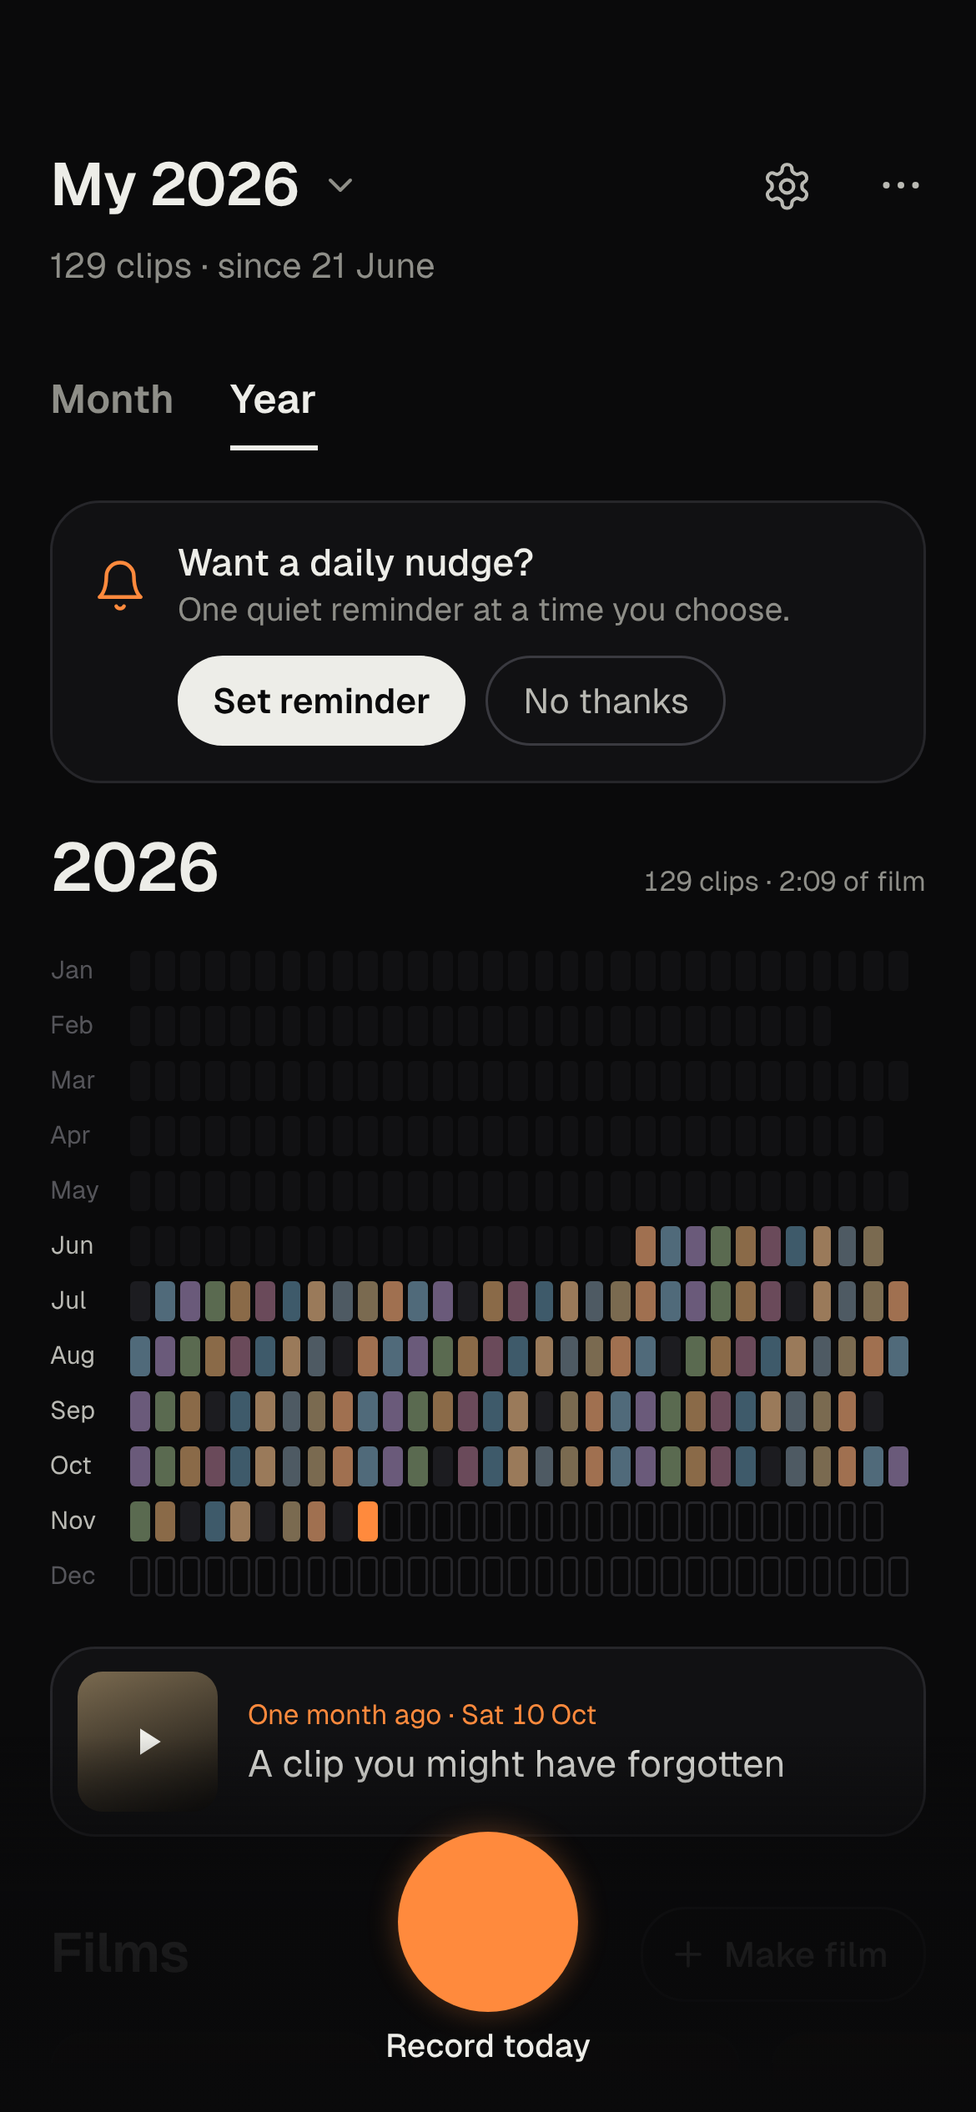
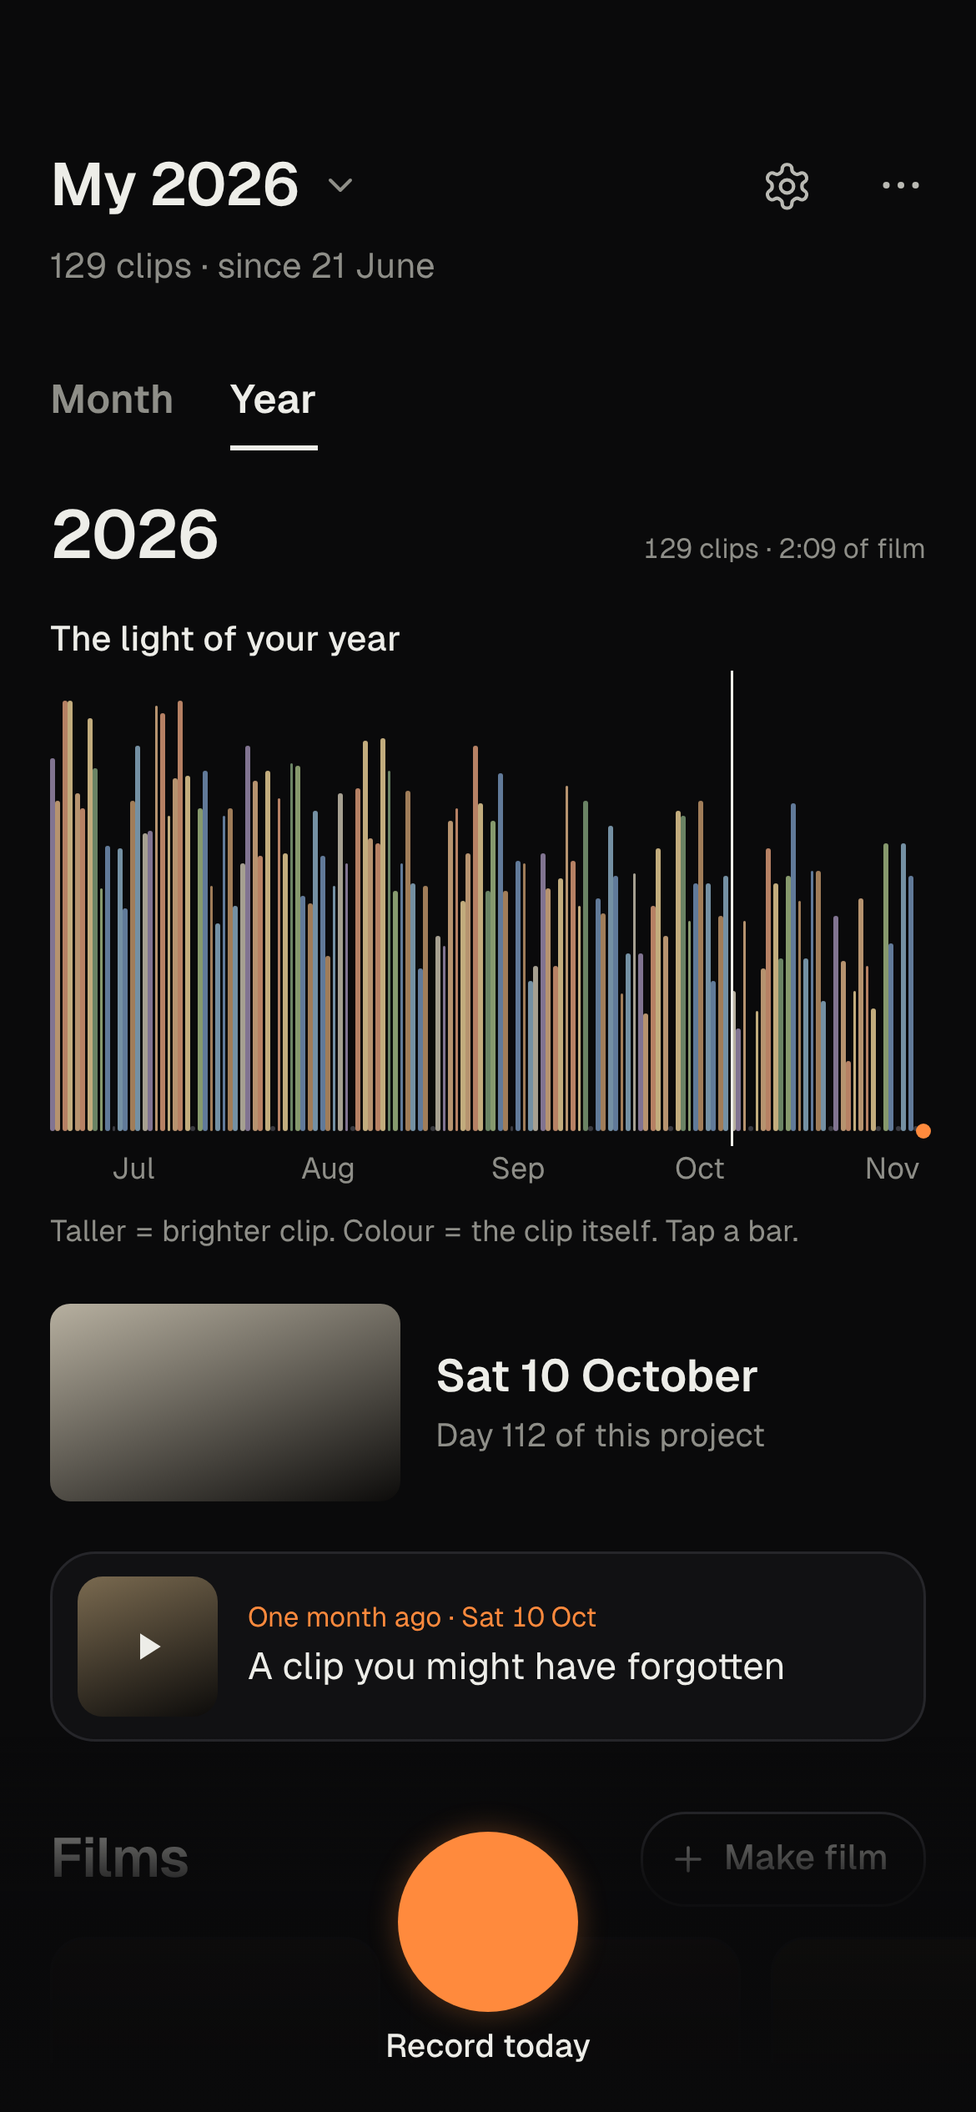
docs(design): v1.3.1 pack — light of the year + golden hour
Adds ProjectHubYear(L) and CameraV2Golden boards and the v1.3.1 INDEX section
from sliver-pixel-perfect_2.zip. Design only; no code yet.

diff --git a/design/src/ProjectHubL.dc.html b/design/src/ProjectHubL.dc.html
@@ -2,7 +2,7 @@
 <html lang="en">
 <head>
 <meta charset="utf-8">
-<title>ProjectHub light</title>
+<title>Project, light</title>
 <script src="./support.js"></script>
 </head>
 <body>
@@ -96,16 +96,28 @@
           <span style="font-family: Geist, Inter, system-ui, sans-serif; font-size: 27px; line-height: 1; font-weight: 600; letter-spacing: -0.02em">2026</span>
           <span style="font-family: Geist, sans-serif; font-variant-numeric: tabular-nums; font-size: 11px; color: #6E6B64">129 clips · 2:09 of film</span>
         </div>
-        <div style="display: flex; flex-direction: column; gap: 6px">
-          <sc-for list="{{year}}" as="r" hint-placeholder-count="12">
-            <button onClick="{{r.go}}" aria-label="{{r.label}}" style="height: 16px; display: flex; align-items: center; border: 0; background: transparent; padding: 0">
-              <span style="flex: 0 0 32px; text-align: left; font-family: Geist, sans-serif; font-variant-numeric: tabular-nums; font-size: 10px; color: {{r.color}}">{{r.n}}</span>
-              <span style="display: flex; gap: 2.3px">
-                <sc-for list="{{r.cells}}" as="y" hint-placeholder-count="31"><span style="width: 7.8px; height: 16px; box-sizing: border-box; border-radius: 2px; background: {{y.bg}}; border: {{y.border}}; visibility: {{y.vis}}"></span></sc-for>
-              </span>
-            </button>
-          </sc-for>
+        <!-- light of the year: one bar per day, height = how bright the clip is, colour = the clip -->
+        <div style="display: flex; flex-direction: column; gap: 8px">
+          <span style="font-family: Geist, sans-serif; font-size: 14px; font-weight: 500; color: #141413">The light of your year</span>
+          <div style="position: relative; height: 180px">
+            <sc-for list="{{light}}" as="b" hint-placeholder-count="143">
+              <span onClick="{{b.pick}}" style="position: absolute; bottom: 0; left: {{b.x}}px; width: 1.9px; height: {{b.h}}px; border-radius: 1px; background: {{b.c}}; opacity: {{b.op}}"></span>
+            </sc-for>
+            <span style="position: absolute; left: {{selX}}px; top: -4px; bottom: -6px; width: 1.5px; background: #141413"></span>
+            <span style="position: absolute; left: {{todayX}}px; bottom: -3px; width: 6px; height: 6px; margin-left: -2px; border-radius: 3px; background: #FF8A3D"></span>
+          </div>
+          <div style="position: relative; height: 16px">
+            <sc-for list="{{lightMonths}}" as="m" hint-placeholder-count="6"><button onClick="{{m.go}}" style="position: absolute; left: {{m.x}}px; border: 0; background: transparent; padding: 0; font-family: Geist, sans-serif; font-size: 12px; color: #6E6B64">{{m.n}}</button></sc-for>
+          </div>
+          <span style="font-family: Geist, sans-serif; font-size: 12px; line-height: 1.4; color: #6E6B64">Taller = brighter clip. Colour = the clip itself. Tap a bar.</span>
         </div>
+        <a href="DayDetail.dc.html" style="display: flex; gap: 14px; align-items: center; text-decoration: none; color: #141413">
+          <span style="flex: 0 0 140px; height: 79px; border-radius: 8px; background: {{selBg}}"></span>
+          <span style="display: flex; flex-direction: column; gap: 4px; font-family: Geist, sans-serif">
+            <span style="font-size: 18px; font-weight: 600">{{selName}}</span>
+            <span style="font-size: 13px; line-height: 1.35; color: #6E6B64">{{selNote}}</span>
+          </span>
+        </a>
       </sc-if>
 
       <!-- memory -->
@@ -215,6 +227,28 @@ class Component extends DCLogic {
       }
       return { n: name, cells: cs, color: active ? '#4A4843' : '#A8A49B', label: MN[mi], go: () => { if (active) this.setState({ view: 'month', month: mi }); } };
     });
+    // light of the year
+    const LW = 350, N = TODAY - START + 1;
+    const lum = (n) => { const season = 1 - (n - START) / N * 0.5; const w = Math.sin(n * 1.7) * 0.17 + Math.sin(n * 0.37) * 0.12; return Math.min(1, Math.max(0.1, season * 0.82 + w)); };
+    const tone = ['#C9A27A', '#7F9FB4', '#93A878', '#C98E6E', '#B7B0A0', '#6A86A8', '#D6BE8A', '#8E80A0', '#B08A62', '#74906E'];
+    const sel = st.sel || doy(9, 10);
+    const light = [];
+    for (let n = START; n < TODAY; n++) {
+      const s = status(...(() => { let mm = 0, dd = n; while (dd > ML[mm]) { dd -= ML[mm]; mm++; } return [mm, dd]; })());
+      const x = ((n - START) * LW / N).toFixed(1);
+      if (s !== 'filled') { light.push({ x, h: 2, c: '#CFCAC0', op: 1, pick: () => {} }); continue; }
+      light.push({ x, h: Math.round(172 * lum(n)), c: tone[(n * 3 + (n >> 3)) % tone.length], op: n === sel ? 1 : 0.9, pick: () => this.setState({ sel: n }) });
+    }
+    const dOf = (n) => { let mm = 0, dd = n; while (dd > ML[mm]) { dd -= ML[mm]; mm++; } return [mm, dd]; };
+    const [sm, sd] = dOf(sel);
+    let best = START, bl = 0; for (let n = START; n < TODAY; n++) { const [a2, b2] = dOf(n); if (a2 === sm && status(a2, b2) === 'filled' && lum(n) > bl) { bl = lum(n); best = n; } }
+    const lightVals = {
+      light, selX: ((sel - START) * LW / N).toFixed(1), todayX: ((TODAY - START) * LW / N).toFixed(1),
+      lightMonths: [[6, 'Jul'], [7, 'Aug'], [8, 'Sep'], [9, 'Oct'], [10, 'Nov']].map((q) => ({ n: q[1], x: Math.max(0, (doy(q[0], 1) - START) * LW / N).toFixed(1), go: () => this.setState({ view: 'month', month: q[0] }) })),
+      selBg: 'linear-gradient(160deg, ' + tone[(sel * 3 + (sel >> 3)) % tone.length] + ', #0C0B0A)',
+      selName: ['Mon', 'Tue', 'Wed', 'Thu', 'Fri', 'Sat', 'Sun'][wdOf(sm, sd)] + ' ' + sd + ' ' + MN[sm],
+      selNote: sel === best ? 'The brightest day of ' + MN[sm] : 'Day ' + (sel - START + 1) + ' of this project'
+    };
     const seg = (on) => ({ line: on ? '#141413' : 'transparent', color: on ? '#141413' : '#6E6B64', on: String(on) });
     return {
       views: [['month', 'Month'], ['year', 'Year']].map((v) => Object.assign({ n: v[1], pick: () => this.setState({ view: v[0] }) }, seg(st.view === v[0]))),
@@ -222,7 +256,7 @@ class Component extends DCLogic {
       prev: () => { if (m > 5) this.setState({ month: m - 1 }); }, next: () => { if (m < 10) this.setState({ month: m + 1 }); },
       prevColor: m > 5 ? '#141413' : '#CFCAC0', nextColor: m < 10 ? '#141413' : '#CFCAC0',
       total: st.saved ? 130 : 129, todayOpen: !st.saved, todayDone: st.saved,
-      monthName: MN[m], monthCount: count, cells, year,
+      monthName: MN[m], monthCount: count, cells, year, ...lightVals,
       nudge: st.nudge, dismissNudge: () => this.setState({ nudge: false }),
       menu: st.menu, menuStr: String(st.menu), menuBg: st.menu ? '#ECE8E0' : 'transparent',
       toggleMenu: () => this.setState({ menu: !st.menu }),

diff --git a/design/src/ProjectHub.dc.html b/design/src/ProjectHub.dc.html
@@ -96,16 +96,28 @@
           <span style="font-family: Geist, Inter, system-ui, sans-serif; font-size: 27px; line-height: 1; font-weight: 600; letter-spacing: -0.02em">2026</span>
           <span style="font-family: Geist, sans-serif; font-variant-numeric: tabular-nums; font-size: 11px; color: #8E8E88">129 clips · 2:09 of film</span>
         </div>
-        <div style="display: flex; flex-direction: column; gap: 6px">
-          <sc-for list="{{year}}" as="r" hint-placeholder-count="12">
-            <button onClick="{{r.go}}" aria-label="{{r.label}}" style="height: 16px; display: flex; align-items: center; border: 0; background: transparent; padding: 0">
-              <span style="flex: 0 0 32px; text-align: left; font-family: Geist, sans-serif; font-variant-numeric: tabular-nums; font-size: 10px; color: {{r.color}}">{{r.n}}</span>
-              <span style="display: flex; gap: 2.3px">
-                <sc-for list="{{r.cells}}" as="y" hint-placeholder-count="31"><span style="width: 7.8px; height: 16px; box-sizing: border-box; border-radius: 2px; background: {{y.bg}}; border: {{y.border}}; visibility: {{y.vis}}"></span></sc-for>
-              </span>
-            </button>
-          </sc-for>
+        <!-- light of the year: one bar per day, height = how bright the clip is, colour = the clip -->
+        <div style="display: flex; flex-direction: column; gap: 8px">
+          <span style="font-family: Geist, sans-serif; font-size: 14px; font-weight: 500; color: #EDEDE8">The light of your year</span>
+          <div style="position: relative; height: 180px">
+            <sc-for list="{{light}}" as="b" hint-placeholder-count="143">
+              <span onClick="{{b.pick}}" style="position: absolute; bottom: 0; left: {{b.x}}px; width: 1.9px; height: {{b.h}}px; border-radius: 1px; background: {{b.c}}; opacity: {{b.op}}"></span>
+            </sc-for>
+            <span style="position: absolute; left: {{selX}}px; top: -4px; bottom: -6px; width: 1.5px; background: #EDEDE8"></span>
+            <span style="position: absolute; left: {{todayX}}px; bottom: -3px; width: 6px; height: 6px; margin-left: -2px; border-radius: 3px; background: #FF8A3D"></span>
+          </div>
+          <div style="position: relative; height: 16px">
+            <sc-for list="{{lightMonths}}" as="m" hint-placeholder-count="6"><button onClick="{{m.go}}" style="position: absolute; left: {{m.x}}px; border: 0; background: transparent; padding: 0; font-family: Geist, sans-serif; font-size: 12px; color: #8E8E88">{{m.n}}</button></sc-for>
+          </div>
+          <span style="font-family: Geist, sans-serif; font-size: 12px; line-height: 1.4; color: #8E8E88">Taller = brighter clip. Colour = the clip itself. Tap a bar.</span>
         </div>
+        <a href="DayDetail.dc.html" style="display: flex; gap: 14px; align-items: center; text-decoration: none; color: #EDEDE8">
+          <span style="flex: 0 0 140px; height: 79px; border-radius: 8px; background: {{selBg}}"></span>
+          <span style="display: flex; flex-direction: column; gap: 4px; font-family: Geist, sans-serif">
+            <span style="font-size: 18px; font-weight: 600">{{selName}}</span>
+            <span style="font-size: 13px; line-height: 1.35; color: #8E8E88">{{selNote}}</span>
+          </span>
+        </a>
       </sc-if>
 
       <!-- memory -->
@@ -215,6 +227,28 @@ class Component extends DCLogic {
       }
       return { n: name, cells: cs, color: active ? '#B9B9B3' : '#55555A', label: MN[mi], go: () => { if (active) this.setState({ view: 'month', month: mi }); } };
     });
+    // light of the year
+    const LW = 350, N = TODAY - START + 1;
+    const lum = (n) => { const season = 1 - (n - START) / N * 0.5; const w = Math.sin(n * 1.7) * 0.17 + Math.sin(n * 0.37) * 0.12; return Math.min(1, Math.max(0.1, season * 0.82 + w)); };
+    const tone = ['#C9A27A', '#7F9FB4', '#93A878', '#C98E6E', '#B7B0A0', '#6A86A8', '#D6BE8A', '#8E80A0', '#B08A62', '#74906E'];
+    const sel = st.sel || doy(9, 10);
+    const light = [];
+    for (let n = START; n < TODAY; n++) {
+      const s = status(...(() => { let mm = 0, dd = n; while (dd > ML[mm]) { dd -= ML[mm]; mm++; } return [mm, dd]; })());
+      const x = ((n - START) * LW / N).toFixed(1);
+      if (s !== 'filled') { light.push({ x, h: 2, c: '#3A3A40', op: 1, pick: () => {} }); continue; }
+      light.push({ x, h: Math.round(172 * lum(n)), c: tone[(n * 3 + (n >> 3)) % tone.length], op: n === sel ? 1 : 0.9, pick: () => this.setState({ sel: n }) });
+    }
+    const dOf = (n) => { let mm = 0, dd = n; while (dd > ML[mm]) { dd -= ML[mm]; mm++; } return [mm, dd]; };
+    const [sm, sd] = dOf(sel);
+    let best = START, bl = 0; for (let n = START; n < TODAY; n++) { const [a2, b2] = dOf(n); if (a2 === sm && status(a2, b2) === 'filled' && lum(n) > bl) { bl = lum(n); best = n; } }
+    const lightVals = {
+      light, selX: ((sel - START) * LW / N).toFixed(1), todayX: ((TODAY - START) * LW / N).toFixed(1),
+      lightMonths: [[6, 'Jul'], [7, 'Aug'], [8, 'Sep'], [9, 'Oct'], [10, 'Nov']].map((q) => ({ n: q[1], x: Math.max(0, (doy(q[0], 1) - START) * LW / N).toFixed(1), go: () => this.setState({ view: 'month', month: q[0] }) })),
+      selBg: 'linear-gradient(160deg, ' + tone[(sel * 3 + (sel >> 3)) % tone.length] + ', #0C0B0A)',
+      selName: ['Mon', 'Tue', 'Wed', 'Thu', 'Fri', 'Sat', 'Sun'][wdOf(sm, sd)] + ' ' + sd + ' ' + MN[sm],
+      selNote: sel === best ? 'The brightest day of ' + MN[sm] : 'Day ' + (sel - START + 1) + ' of this project'
+    };
     const seg = (on) => ({ line: on ? '#EDEDE8' : 'transparent', color: on ? '#EDEDE8' : '#8E8E88', on: String(on) });
     return {
       views: [['month', 'Month'], ['year', 'Year']].map((v) => Object.assign({ n: v[1], pick: () => this.setState({ view: v[0] }) }, seg(st.view === v[0]))),
@@ -222,7 +256,7 @@ class Component extends DCLogic {
       prev: () => { if (m > 5) this.setState({ month: m - 1 }); }, next: () => { if (m < 10) this.setState({ month: m + 1 }); },
       prevColor: m > 5 ? '#EDEDE8' : '#3A3A40', nextColor: m < 10 ? '#EDEDE8' : '#3A3A40',
       total: st.saved ? 130 : 129, todayOpen: !st.saved, todayDone: st.saved,
-      monthName: MN[m], monthCount: count, cells, year,
+      monthName: MN[m], monthCount: count, cells, year, ...lightVals,
       nudge: st.nudge, dismissNudge: () => this.setState({ nudge: false }),
       menu: st.menu, menuStr: String(st.menu), menuBg: st.menu ? '#202024' : 'transparent',
       toggleMenu: () => this.setState({ menu: !st.menu }),

diff --git a/design/src/CameraV2.dc.html b/design/src/CameraV2.dc.html
@@ -67,6 +67,13 @@
   <!-- top: close back to the project (home). No project / Today chips: the camera only films. -->
   <a href="ProjectHub.dc.html" aria-label="Close camera" style="position: absolute; left: 12px; top: 52px; width: 44px; height: 44px; border-radius: 22px; background: #0000008C; display: flex; align-items: center; justify-content: center; color: #FFFFFF"><svg aria-hidden="true" width="20" height="20" viewBox="0 0 24 24" fill="none" stroke="currentColor" stroke-width="1.8" stroke-linecap="round"><path d="M6 6l12 12M18 6L6 18"></path></svg></a>
 
+  <!-- golden hour: only when coarse location was allowed; hidden otherwise, never asks twice -->
+  <sc-if value="{{ghShow}}" hint-placeholder-val="{{ true }}">
+    <span role="status" style="position: absolute; left: 64px; right: 112px; top: 52px; height: 44px; display: flex; align-items: center; justify-content: center; gap: 6px; font-family: Geist, sans-serif; font-size: 13px; font-weight: 500; color: {{ghColor}}; white-space: nowrap; visibility: {{idleVis}}">
+      <svg aria-hidden="true" width="16" height="16" viewBox="0 0 24 24" fill="none" stroke="currentColor" stroke-width="1.8" stroke-linecap="round"><path d="M3 18h18M7 18a5 5 0 0 1 10 0M12 5v3M4.9 9.9l2.1 2.1M19.1 9.9L17 12"></path></svg>{{ghText}}
+    </span>
+  </sc-if>
+
   <!-- tools row, in thumb reach -->
   <div style="position: absolute; right: 12px; top: 52px; display: flex; gap: 8px; visibility: {{idleVis}}">
     <sc-for list="{{tools}}" as="t" hint-placeholder-count="4">
@@ -112,7 +119,7 @@
 
 </div>
 </x-dc>
-<script type="text/x-dc" data-dc-script data-props='{"saved":{"editor":"boolean","default":false},"recording":{"editor":"boolean","default":false},"$preview":{"width":390,"height":844}}'>
+<script type="text/x-dc" data-dc-script data-props='{"golden":{"editor":"enum","options":["soon","now","off"],"default":"soon"},"saved":{"editor":"boolean","default":false},"recording":{"editor":"boolean","default":false},"$preview":{"width":390,"height":844}}'>
 class Component extends DCLogic {
   constructor(props) { super(props); this.state = { grid: false, timer: 0, flash: false, mode: 'video', front: false, flipDeg: 0, rec: !!(props && props.recording), sec: (props && props.recording) ? 3 : 0, f: null, fBig: false, fDim: false, lock: false }; }
   focusAt(e) {
@@ -142,6 +149,8 @@ class Component extends DCLogic {
       saved, hint: !saved && !rec, grid: st.grid,
       rec, videoIdle: video && !rec, photoIdle: !video && !rec, idleVis: rec ? 'hidden' : 'visible',
       startRec: () => this.startRec(),
+      ghShow: (this.props.golden || 'soon') !== 'off', ghColor: this.props.golden === 'now' ? '#FFC58A' : '#FFFFFFD9',
+      ghText: this.props.golden === 'now' ? 'Golden hour now · 24 min left' : 'Golden hour in 38 min',
       fDown: (e) => this.focusAt(e), fUp: () => this.focusUp(),
       focusOn: !!st.f && !rec, fx: st.f ? st.f.x.toFixed(0) : 0, fy: st.f ? st.f.y.toFixed(0) : 0, ly: st.f ? (st.f.y - 54).toFixed(0) : 0,
       fs: st.fBig ? 88 : 64, fm: st.fBig ? -44 : -32, locked: st.lock,

diff --git a/design/src/CameraV2Golden.dc.html b/design/src/CameraV2Golden.dc.html
@@ -1,0 +1,24 @@
+<!doctype html>
+<html lang="en">
+<head>
+<meta charset="utf-8">
+<title>Camera, golden hour now</title>
+<script src="./support.js"></script>
+</head>
+<body>
+<x-dc>
+<helmet>
+<link rel="stylesheet" href="https://fonts.googleapis.com/css2?family=Geist:wght@300;400;500;600&amp;family=Geist+Mono:wght@400;500&amp;family=Instrument+Serif:ital@0;1&amp;display=swap">
+<style>body{margin:0}</style>
+</helmet>
+<div style="width: 390px; height: 844px; background: #0A0A0B">
+  <dc-import name="CameraV2" golden="now" hint-size="390px,844px"></dc-import>
+</div>
+</x-dc>
+<script type="text/x-dc" data-dc-script data-props='{"$preview":{"width":390,"height":844}}'>
+class Component extends DCLogic {
+  renderVals() { return {}; }
+}
+</script>
+</body>
+</html>

diff --git a/design/src/ProjectHubYearL.dc.html b/design/src/ProjectHubYearL.dc.html
@@ -1,0 +1,24 @@
+<!doctype html>
+<html lang="en">
+<head>
+<meta charset="utf-8">
+<title>Project, year light</title>
+<script src="./support.js"></script>
+</head>
+<body>
+<x-dc>
+<helmet>
+<link rel="stylesheet" href="https://fonts.googleapis.com/css2?family=Geist:wght@300;400;500;600&amp;family=Geist+Mono:wght@400;500&amp;family=Instrument+Serif:ital@0;1&amp;display=swap">
+<style>body{margin:0}</style>
+</helmet>
+<div style="width: 390px; height: 844px; background: #0A0A0B">
+  <dc-import name="ProjectHubL" view="year" hint-size="390px,844px"></dc-import>
+</div>
+</x-dc>
+<script type="text/x-dc" data-dc-script data-props='{"$preview":{"width":390,"height":844}}'>
+class Component extends DCLogic {
+  renderVals() { return {}; }
+}
+</script>
+</body>
+</html>

diff --git a/design/src/ProjectHubYear.dc.html b/design/src/ProjectHubYear.dc.html
@@ -12,7 +12,7 @@
 <style>body{margin:0}</style>
 </helmet>
 <div style="width: 390px; height: 844px; background: #0A0A0B">
-  <dc-import name="ProjectHub" view="year" nudge="{{ true }}" hint-size="390px,844px"></dc-import>
+  <dc-import name="ProjectHub" view="year" hint-size="390px,844px"></dc-import>
 </div>
 </x-dc>
 <script type="text/x-dc" data-dc-script data-props='{"$preview":{"width":390,"height":844}}'>

diff --git a/design/INDEX.md b/design/INDEX.md
@@ -77,3 +77,10 @@ Newest board wins. Boards marked *superseded* are kept only for parts not redraw
 | Settings format | `Settings.dc.html` | "Default film format: Cinema 16:9 >" is a normal row that opens a choice. No segmented control. |
 | **Text vertical offset on chips/buttons** | all | It's Android font padding, not a design margin. Set in the base TextStyle: `platformStyle = PlatformTextStyle(includeFontPadding = false)` and `lineHeightStyle = LineHeightStyle(LineHeightStyle.Alignment.Center, LineHeightStyle.Trim.Both)`. Apply it once in the Typography, not per component. |
 | **Light theme** | `*L.dc.html` (ProjectHubL, DayDetailL, ProjectsV2L, SettingsL, EditClipV2L) + `tokens.json → themeLight` | Settings → Appearance: System (default) / Light / Dark. Implement as two `ColorScheme`s from the token maps, so no screen has a hard-coded color. Camera, recording, the Edit clip preview area and the player **stay dark in both themes**. No glow in light theme. Ember text on light uses `emberOnLight` #C2540F (contrast); ember fills keep #FF8A3D with dark text. |
+
+## v1.3.1: light of the year + golden hour
+
+| Item | Design | Notes |
+|---|---|---|
+| **The light of your year** | `ProjectHubYear.dc.html` (dark), `ProjectHubYearL.dc.html` (light) | Replaces the year heatmap in the Year tab. One bar per day from project start to today. **Height = average brightness (luma) of the clip, colour = its dominant colour.** Compute both ONCE at save time from 3 frames (start/middle/end, scaled to 32×18 px), store as two columns on the clip row (`luma: Float 0..1`, `tone: Int ARGB`). The chart then needs no video decoding. An empty day = a 2dp grey stub, today = an ember dot on the baseline. Tap a bar → the day card below updates (thumbnail, date, "The brightest day of <month>" if it is). Tap a month label → Month tab on that month. Draw it with one `Canvas`, not 365 composables. |
+| **Golden hour** | `CameraV2.dc.html` (`golden` = soon), `CameraV2Golden.dc.html` (now) | Top bar of the camera, between ✕ and the tools: sun icon + "Golden hour in 38 min" (white 85%), or "Golden hour now · 24 min left" (#FFC58A) during it. Golden hour = the sun's elevation between −4° and +6°, morning and evening. Show the next one only if it starts within 3 h; otherwise show nothing. Computed offline (NOAA solar position formula, ~60 lines, no library) from the **coarse** location (`ACCESS_COARSE_LOCATION`, last known location only, no GPS fix). Ask for location once, from a row in Settings ("Show golden hour"), never on camera start. Denied/off = the line is simply absent. Hidden while recording. |
